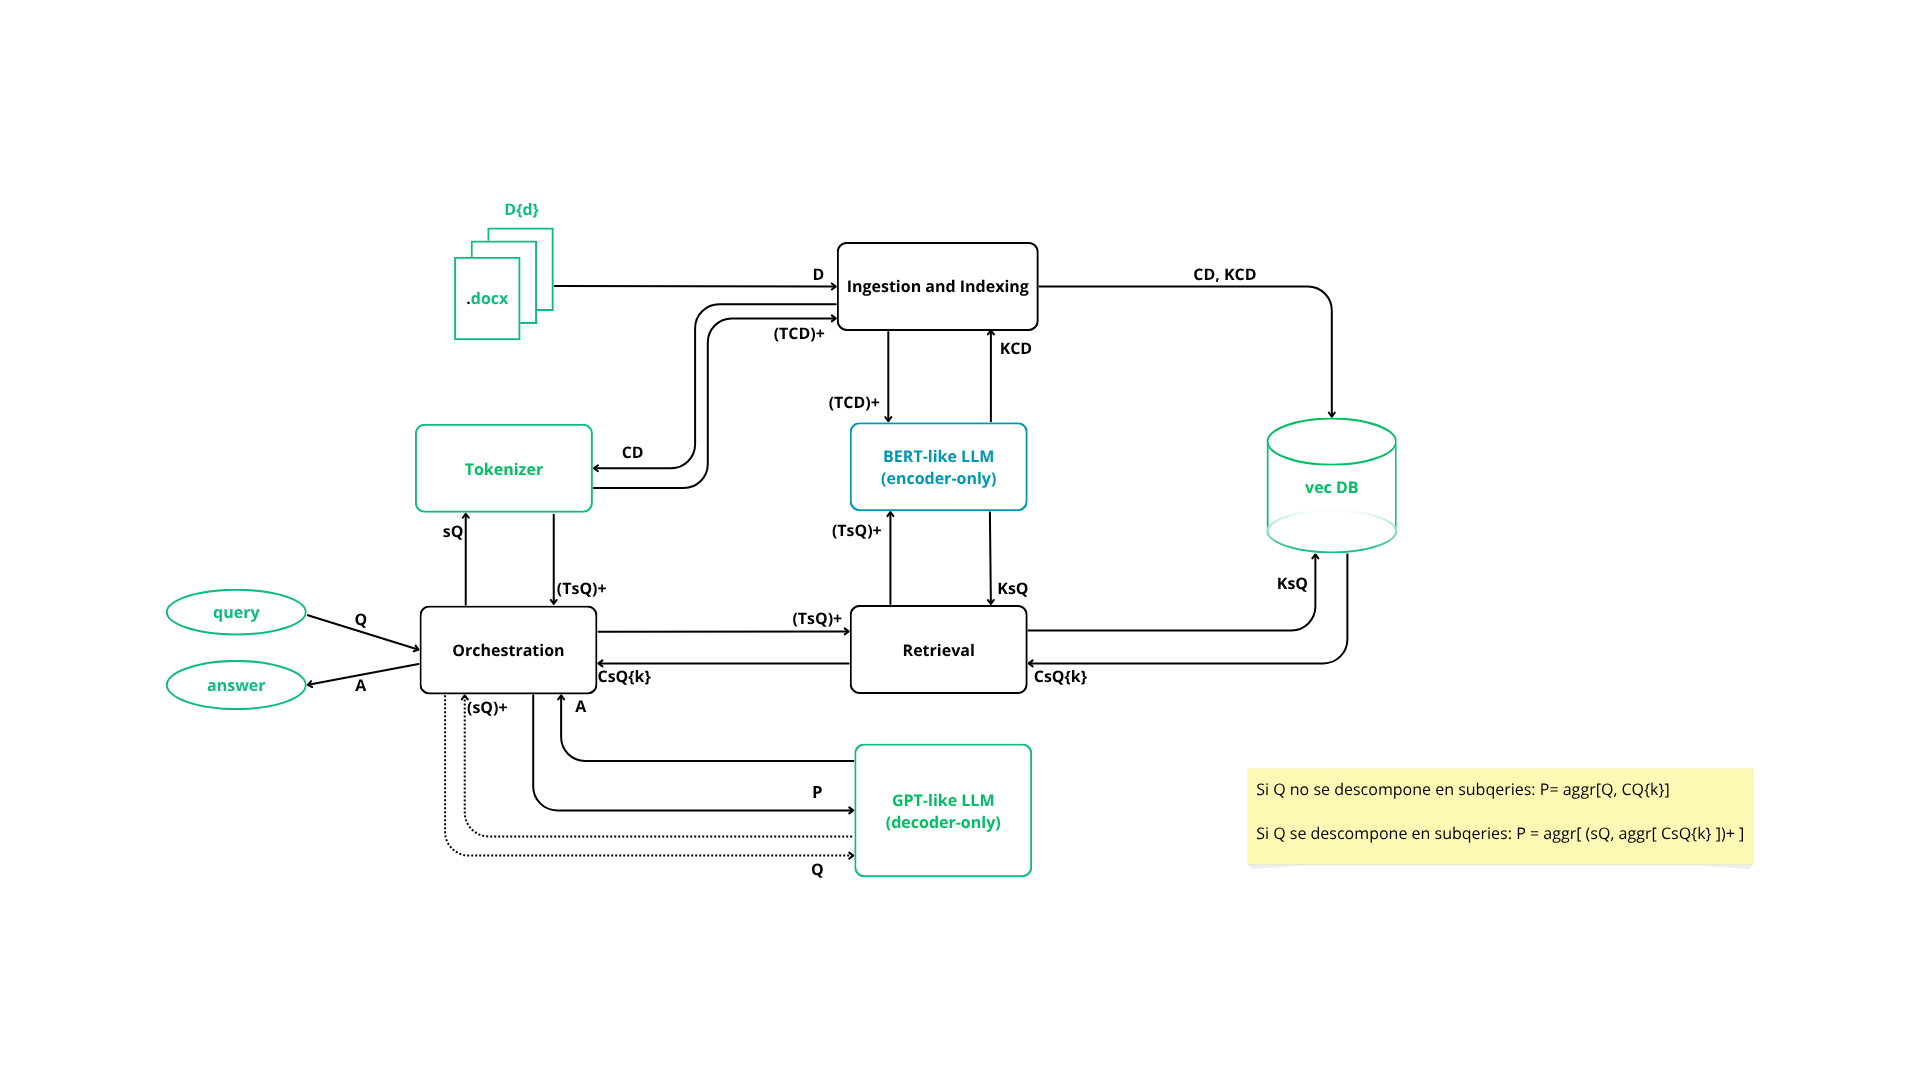
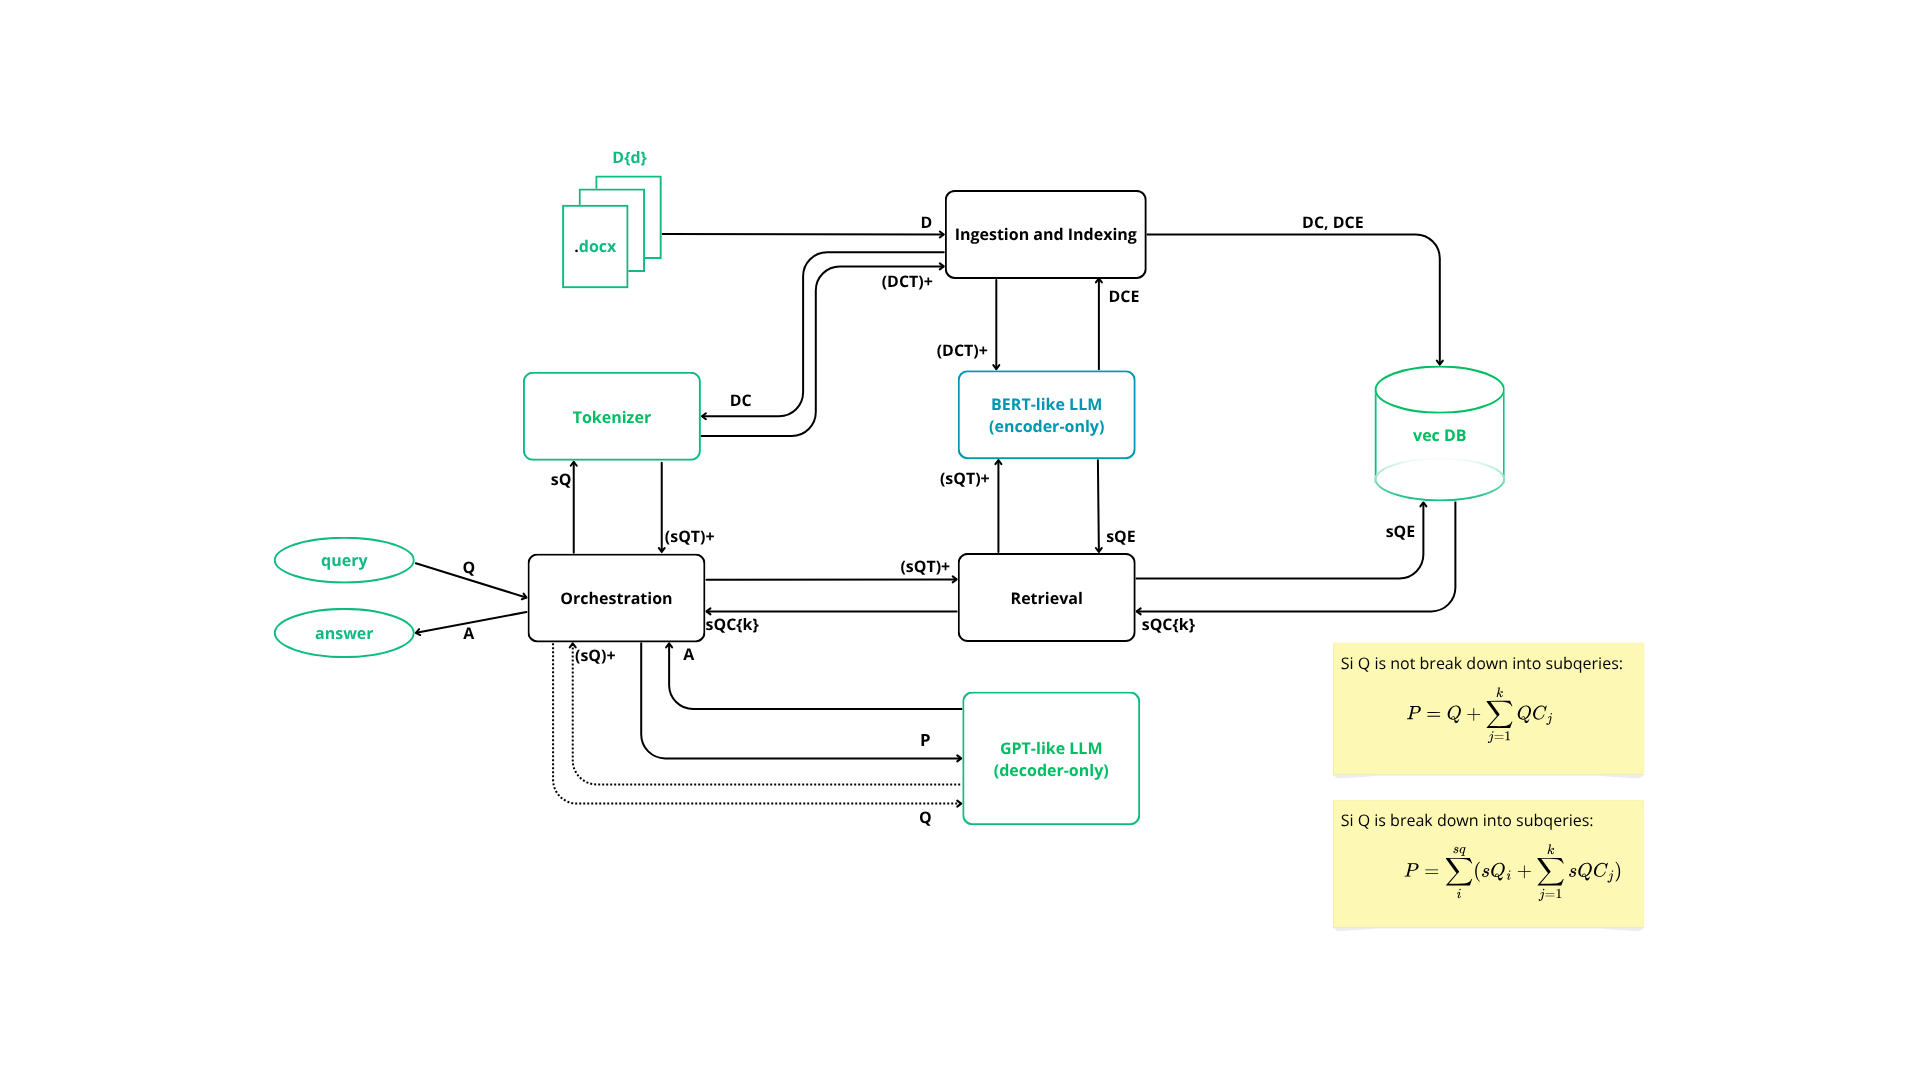
Update architecture documents and diagram

diff --git a/architecture/cosora_architecture_es.md b/architecture/cosora_architecture_es.md
@@ -108,8 +108,9 @@ Se propone [BSC-LT/MrBERT-es](https://huggingface.co/BSC-LT/MrBERT-es) como enco
 
 ### 2. LLM decoder-only para generar las respuestas
 
-Un modelo GPT pendiente de determinar.
+pendiente
 
 ## IV. Base de datos vectorial
 
 Se propone [ChromaDB](https://www.trychroma.com/products/chromadb) como base de datos vectorial por su simplicidad de integración, ya que funciona de forma embebida en Python sin necesidad de infraestructura adicional, lo que facilita el desarrollo rápido de prototipos RAG. Además, permite persistencia local eficiente de embeddings y consultas por similitud, siendo una opción ligera y suficiente para sistemas en fase inicial o de experimentación.
+

diff --git a/architecture/cosora_architecture_en.md b/architecture/cosora_architecture_en.md
@@ -107,6 +107,6 @@ To ensure consistency of textual representation across the entire system.
 
 A GPT model pending to be specified
 
-## IV. Base de datos vectorial
+## IV. Vector database
 
 [ChromaDB](https://www.trychroma.com/products/chromadb) is proposed as the vector database due to its ease of integration, as it runs embedded in Python without requiring additional infrastructure, which facilitates rapid RAG prototyping. Furthermore, it enables efficient local persistence of embeddings and similarity queries, making it a lightweight and sufficient option for early-stage or experimental systems.